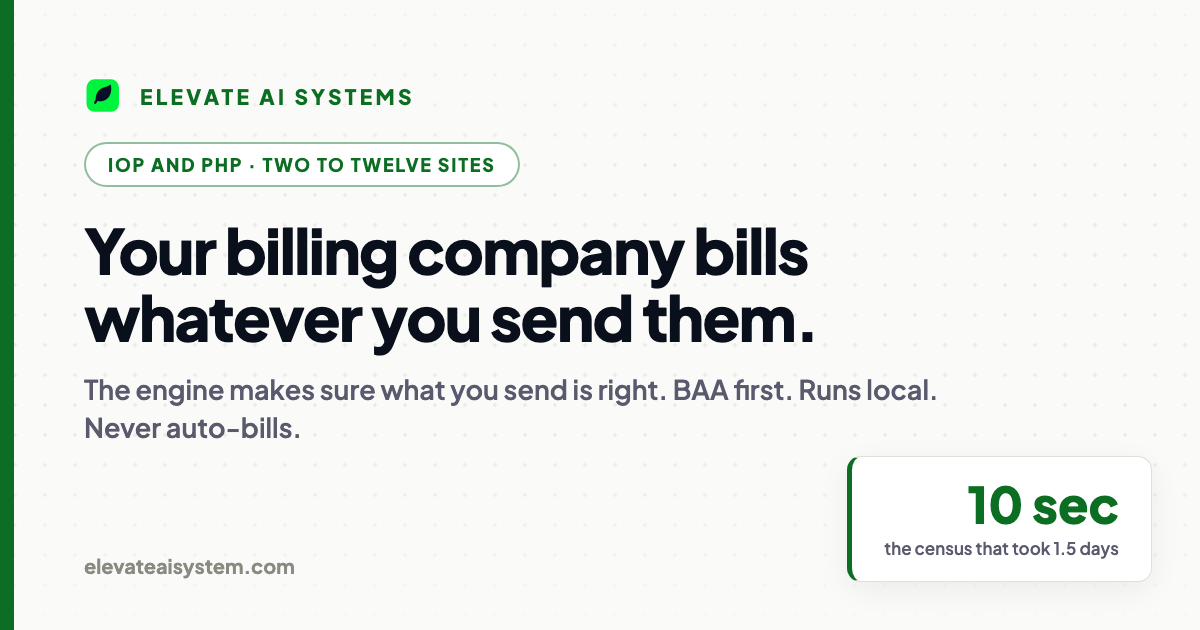
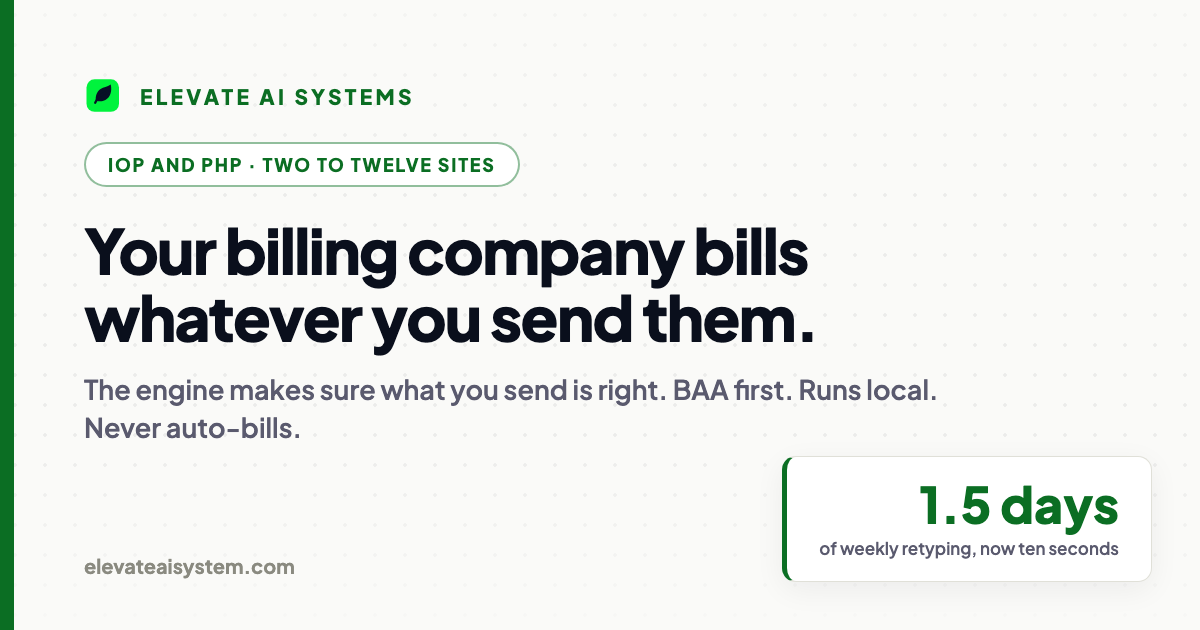
Wedge follow-up: the path seals shut, and the close gets a face
#1  The logo on all four BH-path pages now returns to
    /behavioral-health, not the two-product homepage. The isolation
    has no side door left.
#2  About Sunny leaves the path footers. The men's-work About stays
    real elsewhere; this buyer's journey never routes through it.
#3/#9 The close is no longer a stranger in an FAQ: a founder strip
    (real photo, resized 930KB -> 44KB) sits between the questions
    and the closing CTA. One paragraph, engineer who sat with the
    ops lead and wrote the five checks. No chips.
#7  "What does it cost?" joins the FAQ in the band's exact words:
    audit quoted flat, engine flat, audit credited, find nothing
    and you buy nothing.
#10 The og card leads with the owner's number now: 1.5 days of
    weekly retyping, not the builder's 10 seconds.
#11 The estimator's example numbers are prerendered into the HTML
    (both pages), so the arithmetic is visible before JS runs.

Declined for now, with reasons: H0015/S9480 code flavor waits until
a real biller confirms the codes their payers use (no fake billing
precision); the design-kit reskin is Phase B and lands with the
real artifact; no manufactured quote.

Changed region(s): [[0.6475, 0.7238, 0.925, 0.9349]]

diff --git a/behavioral-health.html b/behavioral-health.html
@@ -43,7 +43,7 @@
 
 <nav class="nav">
   <div class="nav-in">
-    <a href="/" class="nav-logo">
+    <a href="/behavioral-health" class="nav-logo">
       <svg class="nav-logo-icon" width="34" height="34" viewBox="0 0 48 48" fill="none" aria-hidden="true"><rect x="3" y="4" width="39" height="39" rx="9.8" fill="#00F33D"/><path d="M14.2 30.5C13.6 24 15.2 18.8 19.9 15.6C23.5 13.2 27.7 13.4 32.1 10.2C33.9 18.5 31.6 25.6 25.7 28.8C21.9 30.9 18 30.7 15.4 29.6L14.2 30.5Z" fill="#071126"/><path d="M13.4 32.1C15.8 26.9 19.8 22.9 25.3 20.1" stroke="#071126" stroke-width="2.7" stroke-linecap="round"/></svg>
       Elevate<i>AI</i>
     </a>
@@ -334,13 +334,13 @@
         <div class="calc-f"><label for="norw">Denials never reworked (%)</label><input id="norw" type="number" value="30" min="0" max="100" step="1"></div>
       </div>
       <div class="calc-out">
-        <div class="calc-row"><span>Threshold days, lost to the rate collapse</span><b id="o1">$0</b></div>
+        <div class="calc-row"><span>Threshold days, lost to the rate collapse</span><b id="o1">$12,960</b></div>
         <div class="calc-bar" id="o1-bar" aria-hidden="true"><i></i></div>
-        <div class="calc-row"><span>Delivered but never billed</span><b id="o2">$0</b></div>
+        <div class="calc-row"><span>Delivered but never billed</span><b id="o2">$3,600</b></div>
         <div class="calc-bar" id="o2-bar" aria-hidden="true"><i></i></div>
-        <div class="calc-row"><span>Denials never reworked</span><b id="o3">$0</b></div>
+        <div class="calc-row"><span>Denials never reworked</span><b id="o3">$16,038</b></div>
         <div class="calc-bar" id="o3-bar" aria-hidden="true"><i></i></div>
-        <div class="calc-row total"><span>Estimated annual exposure</span><b id="o4">$0</b></div>
+        <div class="calc-row total"><span>Estimated annual exposure</span><b id="o4">$391,176</b></div>
       </div>
       <p class="calc-note"><b>Before you quote that number.</b> This is arithmetic on figures you typed, not a finding about your business. It leaves out clawback exposure entirely, because that follows audit risk rather than volume. Treat it as a reason to look, not a result.</p>
     </div>
@@ -359,8 +359,18 @@
       <details><summary>We are too messy, and every site does it differently.</summary><p>Messy is the qualification, not the disqualification. If your spreadsheets were clean you would not need me. Each site has its own dialect of colours, time slots and naming, and the parser learns all of them before anyone talks about standardising.</p></details>
       <details><summary>How do we know it works?</summary><p>Parallel run. Your person does one normal week by hand, the system does the same week, and we compare line by line before you rely on it.</p></details>
       <details><summary>What if our billing person leaves?</summary><p>That is the real risk today, and a reason to start rather than wait. The rules come out of their head into config, plus an SOP we write together. The system runs the rules and a human confirms the edge cases.</p></details>
+      <details><summary>What does it cost?</summary><p>The audit is quoted flat before you commit, on the free call. The engine is a flat build, quoted after the audit, and the audit is credited toward it. If the audit finds nothing much, you keep the SOP and buy nothing.</p></details>
       <details><summary>Who does the work?</summary><p>I do. Sunny Binjola. The person writing the code is the person on your calls.</p></details>
     </div>
+  </div>
+</section>
+
+<section class="section">
+  <div class="section-inner">
+    <figure class="who reveal">
+      <img src="/sunny-560.jpg" alt="Sunny Binjola" width="120" height="120" loading="lazy">
+      <p><b>Sunny Binjola.</b> I sat with the operations lead, asked what actually goes wrong every week, and wrote the five checks from the answers. A decade as a software engineer before this. The person writing the code is the person on your calls, and the person reading your first month.</p>
+    </figure>
   </div>
 </section>
 
@@ -380,7 +390,7 @@
   <div class="footer-in">
     <div class="footer-cols">
       <div><h3>Behavioral health</h3><a href="/behavioral-health">Overview</a><a href="/the-ten-second-run">Case study</a><a href="/five-leaks">The Five Leaks</a><a href="/leak-checklist">Leak checklist</a></div>
-      <div><h3>Company</h3><a href="/">Home</a><a href="/about">About Sunny</a><a href="https://cal.com/sunny-binjola/discovery-call?utm_source=website&utm_campaign=behavioral-health" target="_blank" rel="noopener">Book a call</a></div>
+      <div><h3>Company</h3><a href="/">Home</a><a href="https://cal.com/sunny-binjola/discovery-call?utm_source=website&utm_campaign=behavioral-health" target="_blank" rel="noopener">Book a call</a></div>
             <div><h3>Contact</h3><a href="mailto:sunny.binjola@gmail.com">sunny.binjola@gmail.com</a></div>
     </div>
     <div class="footer-bot">

diff --git a/five-leaks.html b/five-leaks.html
@@ -42,7 +42,7 @@
 
 <nav class="nav">
   <div class="nav-in">
-    <a href="/" class="nav-logo">
+    <a href="/behavioral-health" class="nav-logo">
       <svg class="nav-logo-icon" width="34" height="34" viewBox="0 0 48 48" fill="none" aria-hidden="true"><rect x="3" y="4" width="39" height="39" rx="9.8" fill="#00F33D"/><path d="M14.2 30.5C13.6 24 15.2 18.8 19.9 15.6C23.5 13.2 27.7 13.4 32.1 10.2C33.9 18.5 31.6 25.6 25.7 28.8C21.9 30.9 18 30.7 15.4 29.6L14.2 30.5Z" fill="#071126"/><path d="M13.4 32.1C15.8 26.9 19.8 22.9 25.3 20.1" stroke="#071126" stroke-width="2.7" stroke-linecap="round"/></svg>
       Elevate<i>AI</i>
     </a>
@@ -250,13 +250,13 @@
         <div class="calc-f"><label for="norw">Denials never reworked (%)</label><input id="norw" type="number" value="30" min="0" max="100" step="1"></div>
       </div>
       <div class="calc-out">
-        <div class="calc-row"><span>Threshold days, lost to the rate collapse</span><b id="o1">$0</b></div>
+        <div class="calc-row"><span>Threshold days, lost to the rate collapse</span><b id="o1">$12,960</b></div>
         <div class="calc-bar" id="o1-bar" aria-hidden="true"><i></i></div>
-        <div class="calc-row"><span>Delivered but never billed</span><b id="o2">$0</b></div>
+        <div class="calc-row"><span>Delivered but never billed</span><b id="o2">$3,600</b></div>
         <div class="calc-bar" id="o2-bar" aria-hidden="true"><i></i></div>
-        <div class="calc-row"><span>Denials never reworked</span><b id="o3">$0</b></div>
+        <div class="calc-row"><span>Denials never reworked</span><b id="o3">$16,038</b></div>
         <div class="calc-bar" id="o3-bar" aria-hidden="true"><i></i></div>
-        <div class="calc-row total"><span>Estimated annual exposure</span><b id="o4">$0</b></div>
+        <div class="calc-row total"><span>Estimated annual exposure</span><b id="o4">$391,176</b></div>
       </div>
       <p class="calc-note"><b>Before you quote that number.</b> This is arithmetic on figures you typed, not a finding about your business. It leaves out clawback exposure entirely, because that follows audit risk rather than volume. Treat it as a reason to look, not a result.</p>
     </div>
@@ -296,7 +296,7 @@
   <div class="footer-in">
     <div class="footer-cols">
       <div><h3>Behavioral health</h3><a href="/behavioral-health">Overview</a><a href="/the-ten-second-run">Case study</a><a href="/five-leaks">The Five Leaks</a><a href="/leak-checklist">Leak checklist</a></div>
-      <div><h3>Company</h3><a href="/about">About Sunny</a><a href="/blog">Blog</a><a href="https://cal.com/sunny-binjola/discovery-call?utm_source=website&utm_campaign=five-leaks" target="_blank" rel="noopener">Book a call</a></div>
+      <div><h3>Company</h3><a href="/blog">Blog</a><a href="https://cal.com/sunny-binjola/discovery-call?utm_source=website&utm_campaign=five-leaks" target="_blank" rel="noopener">Book a call</a></div>
       <div><h3>Contact</h3><a href="mailto:sunny.binjola@gmail.com">sunny.binjola@gmail.com</a></div>
     </div>
     <div class="footer-bot">

diff --git a/the-ten-second-run.html b/the-ten-second-run.html
@@ -35,7 +35,7 @@
 
 <nav class="nav">
   <div class="nav-in">
-    <a href="/" class="nav-logo">
+    <a href="/behavioral-health" class="nav-logo">
       <svg class="nav-logo-icon" width="34" height="34" viewBox="0 0 48 48" fill="none" aria-hidden="true"><rect x="3" y="4" width="39" height="39" rx="9.8" fill="#00F33D"/><path d="M14.2 30.5C13.6 24 15.2 18.8 19.9 15.6C23.5 13.2 27.7 13.4 32.1 10.2C33.9 18.5 31.6 25.6 25.7 28.8C21.9 30.9 18 30.7 15.4 29.6L14.2 30.5Z" fill="#071126"/><path d="M13.4 32.1C15.8 26.9 19.8 22.9 25.3 20.1" stroke="#071126" stroke-width="2.7" stroke-linecap="round"/></svg>
       Elevate<i>AI</i>
     </a>
@@ -210,7 +210,7 @@
   <div class="footer-in">
     <div class="footer-cols">
       <div><h3>Behavioral health</h3><a href="/behavioral-health">Overview</a><a href="/the-ten-second-run">Case study</a><a href="/five-leaks">The Five Leaks</a><a href="/leak-checklist">Leak checklist</a></div>
-      <div><h3>Company</h3><a href="/about">About Sunny</a><a href="/blog">Blog</a><a href="https://cal.com/sunny-binjola/discovery-call?utm_source=website&utm_campaign=the-ten-second-run" target="_blank" rel="noopener">Book a call</a></div>
+      <div><h3>Company</h3><a href="/blog">Blog</a><a href="https://cal.com/sunny-binjola/discovery-call?utm_source=website&utm_campaign=the-ten-second-run" target="_blank" rel="noopener">Book a call</a></div>
       <div><h3>Contact</h3><a href="mailto:sunny.binjola@gmail.com">sunny.binjola@gmail.com</a></div>
     </div>
     <div class="footer-bot">

diff --git a/assets/site.css b/assets/site.css
@@ -483,6 +483,13 @@ td b{color:var(--navy)}
 .quote-strip figcaption b{display:block;font-size:.9rem;color:var(--navy)}
 .qs-avatar{width:34px;height:34px;border-radius:50%;background:var(--navy);color:var(--green);font-size:.7rem;font-weight:800;display:flex;align-items:center;justify-content:center;flex-shrink:0}
 
+/* ---------- Who does the work: face + one paragraph, no chips ---------- */
+.who{display:flex;gap:1.6rem;align-items:center;max-width:760px;margin:0 auto;background:var(--card-bg);border:1px solid var(--border);border-radius:var(--radius-lg);padding:1.6rem 1.8rem}
+.who img{width:120px;height:120px;border-radius:12px;object-fit:cover;flex-shrink:0}
+.who p{font-size:.97rem;color:var(--text-muted);line-height:1.65;margin:0}
+.who p b{color:var(--navy)}
+@media(max-width:560px){.who{flex-direction:column;text-align:center;padding:1.4rem}.who img{width:104px;height:104px}}
+
 /* ---------- Compact strip list (replaces card grids where cards were overkill) ---------- */
 .striplist{margin-top:2rem;border-top:1px solid var(--border)}
 .striprow{display:grid;grid-template-columns:215px 1fr;gap:1.3rem;padding:.95rem 0;border-bottom:1px solid var(--border);align-items:baseline}

diff --git a/leak-checklist.html b/leak-checklist.html
@@ -27,7 +27,7 @@
 
 <nav class="nav no-print">
   <div class="nav-in">
-    <a href="/" class="nav-logo">
+    <a href="/behavioral-health" class="nav-logo">
       <svg class="nav-logo-icon" width="34" height="34" viewBox="0 0 48 48" fill="none" aria-hidden="true"><rect x="3" y="4" width="39" height="39" rx="9.8" fill="#00F33D"/><path d="M14.2 30.5C13.6 24 15.2 18.8 19.9 15.6C23.5 13.2 27.7 13.4 32.1 10.2C33.9 18.5 31.6 25.6 25.7 28.8C21.9 30.9 18 30.7 15.4 29.6L14.2 30.5Z" fill="#071126"/><path d="M13.4 32.1C15.8 26.9 19.8 22.9 25.3 20.1" stroke="#071126" stroke-width="2.7" stroke-linecap="round"/></svg>
       Elevate<i>AI</i>
     </a>
